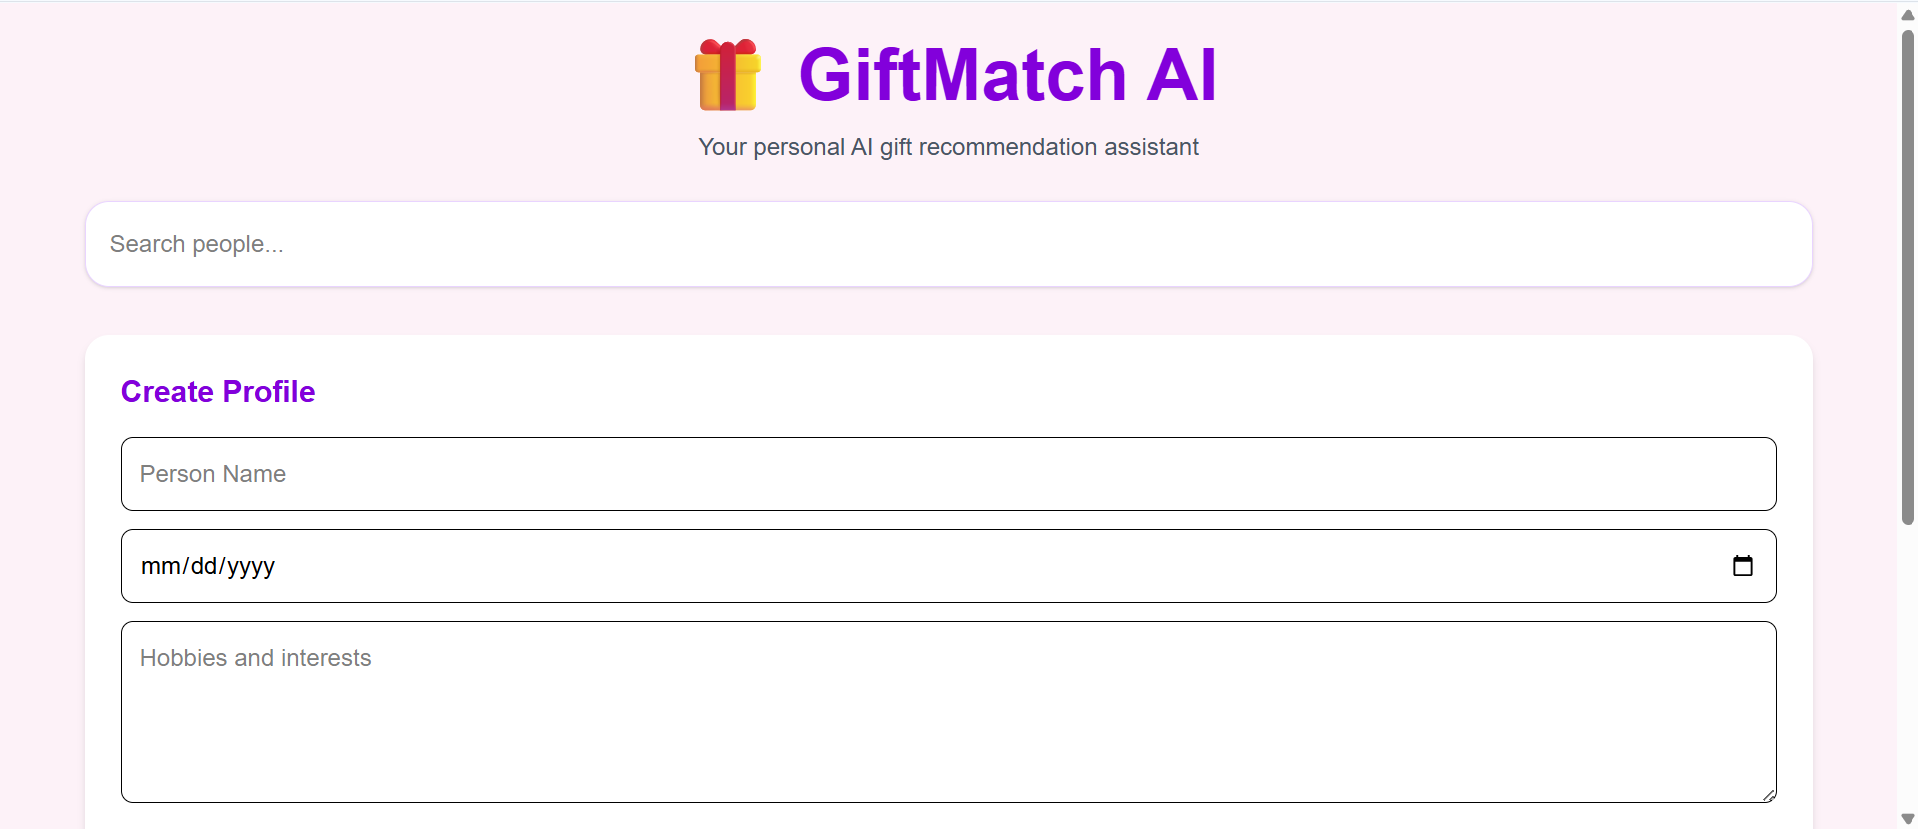
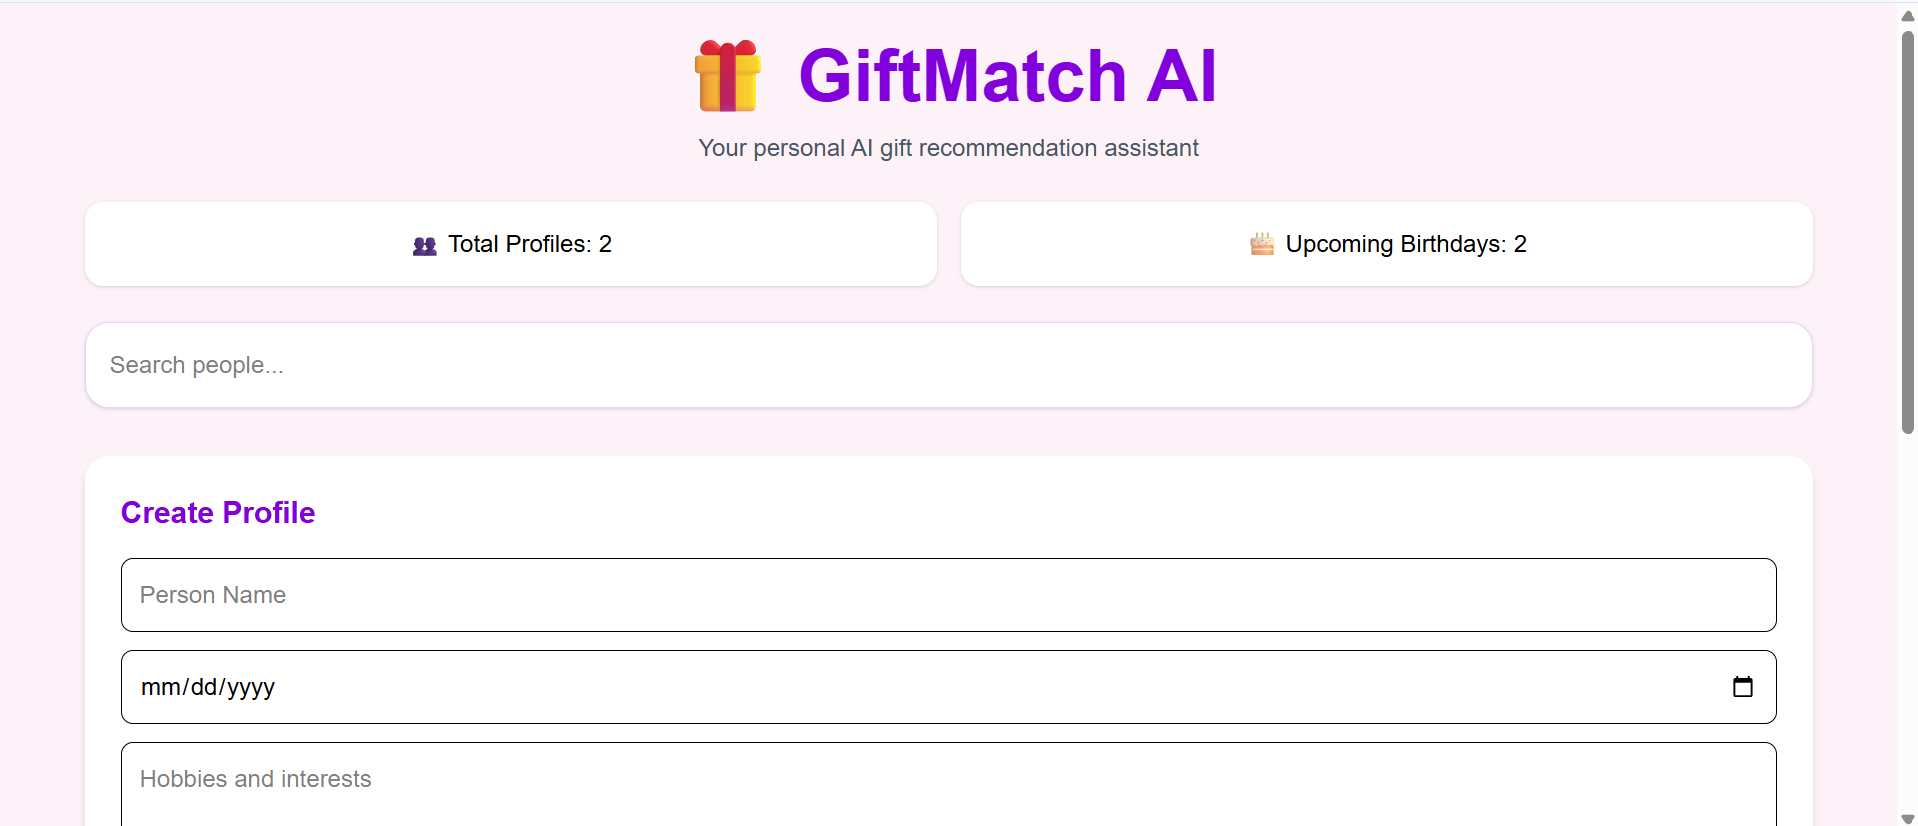
Update dashboard screenshots

diff --git a/README.md b/README.md
@@ -40,7 +40,7 @@ Choosing meaningful gifts can be difficult. GiftMatch AI helps users store birth
 ### Dashboard
 
 ![Dashboard](./public/screenshots/Dashboard.png)
-![Dashboard 1](./public/screenshots/Dashboard%201.png)
+![Dashboard 1](./public/screenshots/Dashboard-1.png)
 
 ### Profile Cards
 